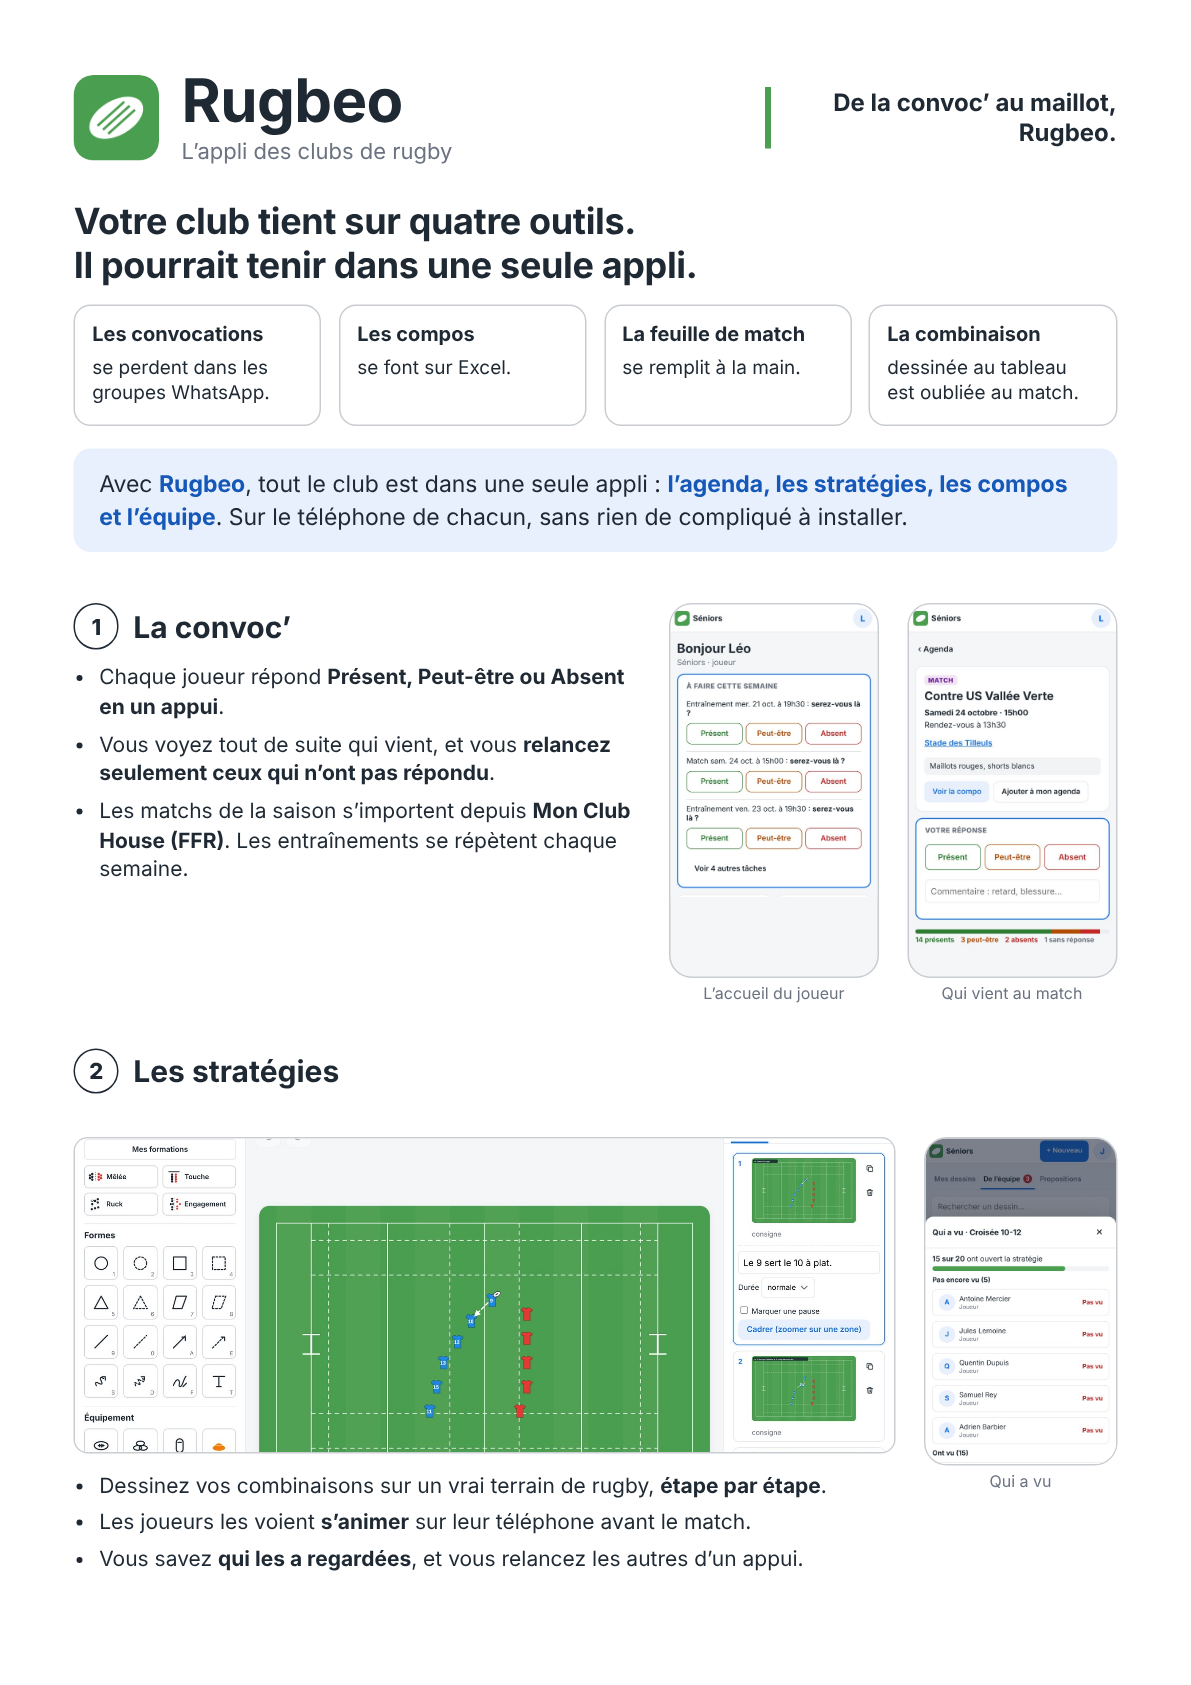
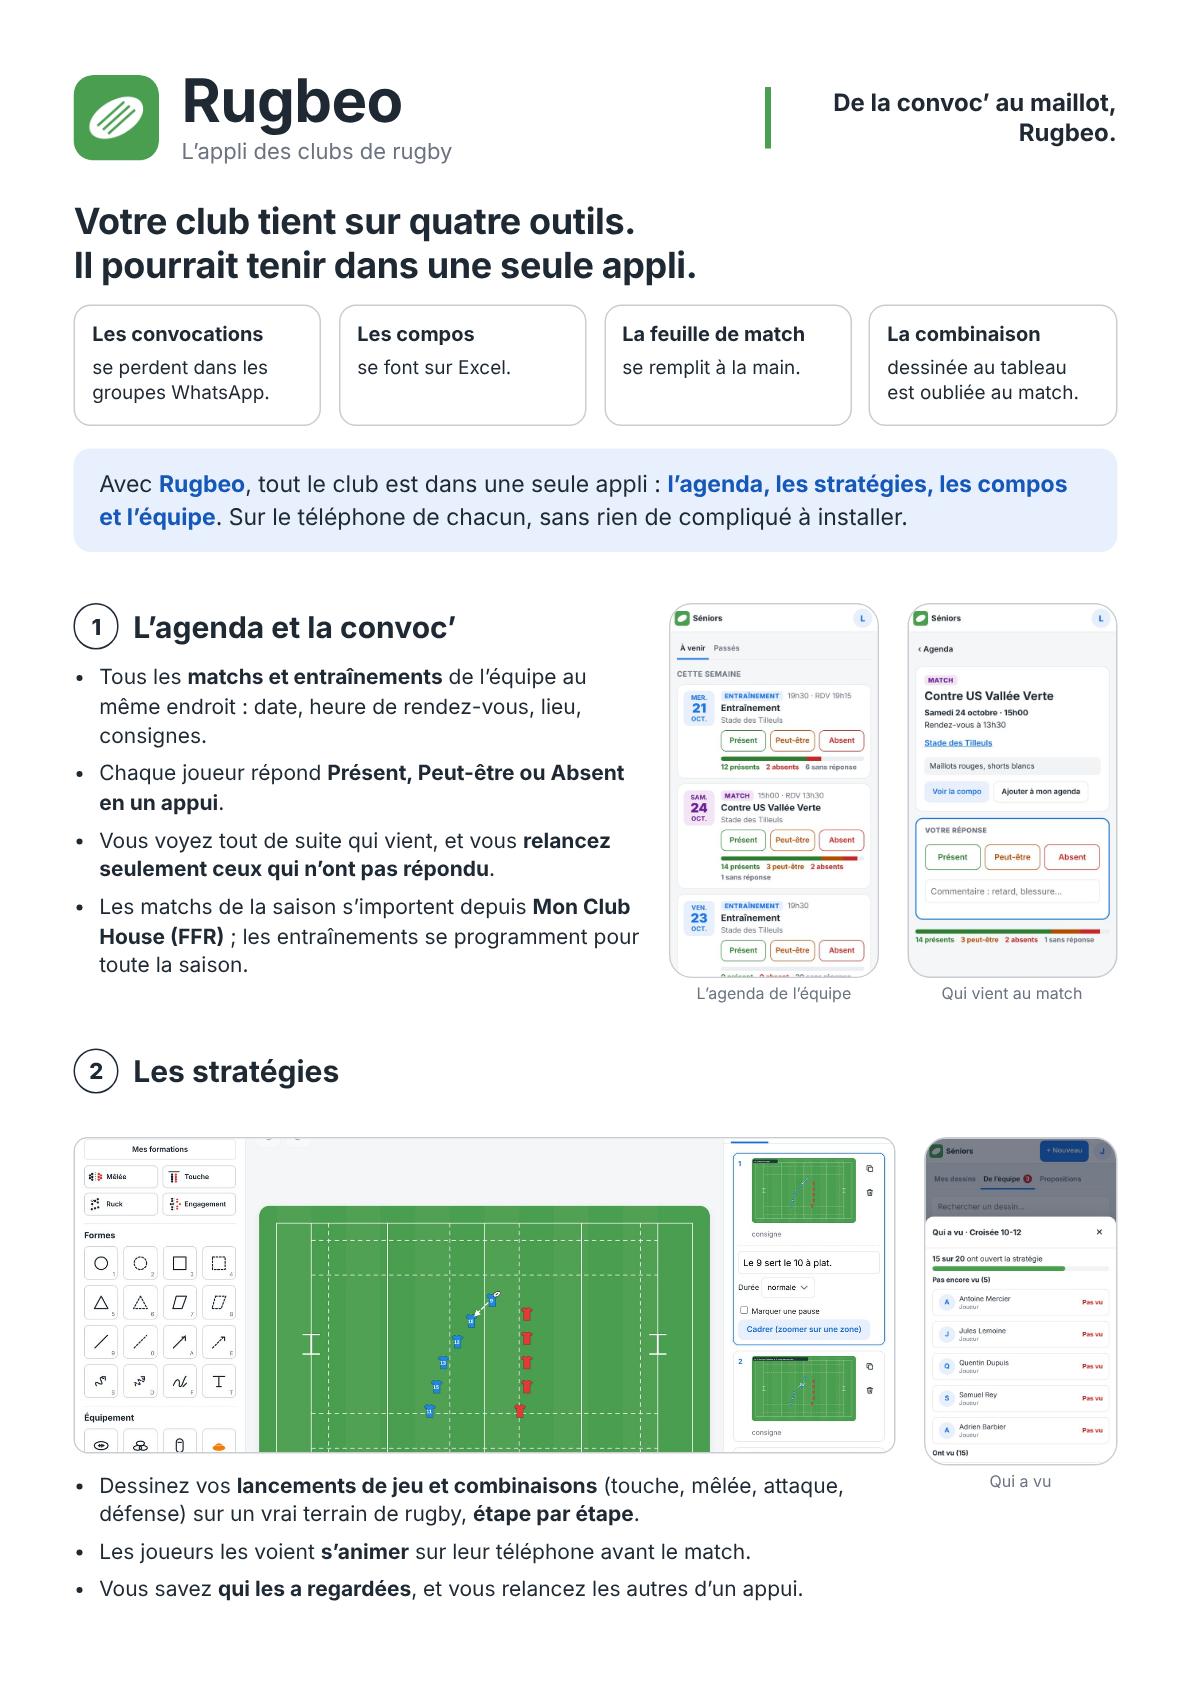
Plaquette : agenda et convoc', feuille de match, accueil qui fait avancer l'équipe (sans la partie profils)
Claude-Session: https://claude.ai/code/session_01RuavE2GoawUSus8iULb9LQ

Changed region(s): [[0.0621, 0.3703, 0.5281, 0.5864], [0.0621, 0.8641, 0.6835, 0.9567], [0.5592, 0.3703, 0.7456, 0.6172]]

diff --git a/docs/plaquette/plaquette.html b/docs/plaquette/plaquette.html
@@ -55,9 +55,11 @@
   .f-strat .phone { height: 58mm; }
   .f-strat .wide { height: 56mm; }
   .f-strat .wide img { object-fit: cover; object-position: 50% 30%; height: 100%; }
-  .f-compo, .f-team { grid-template-columns: 1fr 44mm; }
-  .f-compo .phone { height: 62mm; }
-  .f-team .phone { height: 50mm; }
+  .f-compo { grid-template-columns: 1fr 44mm; }
+  .f-home { grid-template-columns: 1fr 36mm 36mm; }
+  .f-home .phone { height: 54mm; }
+  .f-compo .phone { height: 58mm; }
+  
 
   /* Verso */
   .club { border: .35mm solid var(--border-strong); border-radius: 3mm; padding: 4mm 5mm; }
@@ -99,14 +101,15 @@
 
   <div class="feature f-convoc">
     <div>
-      <h3><span class="num">1</span>La convoc’</h3>
+      <h3><span class="num">1</span>L’agenda et la convoc’</h3>
       <ul>
+        <li>Tous les <b>matchs et entraînements</b> de l’équipe au même endroit : date, heure de rendez-vous, lieu, consignes.</li>
         <li>Chaque joueur répond <b>Présent, Peut-être ou Absent en un appui</b>.</li>
         <li>Vous voyez tout de suite qui vient, et vous <b>relancez seulement ceux qui n’ont pas répondu</b>.</li>
-        <li>Les matchs de la saison s’importent depuis <b>Mon Club House (FFR)</b>. Les entraînements se répètent chaque semaine.</li>
+        <li>Les matchs de la saison s’importent depuis <b>Mon Club House (FFR)</b> ; les entraînements se programment pour toute la saison.</li>
       </ul>
     </div>
-    <div><div class="phone"><img src="captures/joueur-accueil.jpg" alt="Accueil d’un joueur : Présent, Peut-être, Absent"></div><p class="cap">L’accueil du joueur</p></div>
+    <div><div class="phone"><img src="captures/joueur-agenda.jpg" alt="L’agenda : entraînements et matchs avec les réponses"></div><p class="cap">L’agenda de l’équipe</p></div>
     <div><div class="phone"><img src="captures/match-detail.jpg" alt="Détail d’un match : qui vient"></div><p class="cap">Qui vient au match</p></div>
   </div>
 
@@ -116,7 +119,7 @@
       <div>
         <div class="wide"><img src="captures/editeur.jpg" alt="L’éditeur de stratégies"></div>
         <ul style="margin-top:3mm">
-          <li>Dessinez vos combinaisons sur un vrai terrain de rugby, <b>étape par étape</b>.</li>
+          <li>Dessinez vos <b>lancements de jeu et combinaisons</b> (touche, mêlée, attaque, défense) sur un vrai terrain de rugby, <b>étape par étape</b>.</li>
           <li>Les joueurs les voient <b>s’animer</b> sur leur téléphone avant le match.</li>
           <li>Vous savez <b>qui les a regardées</b>, et vous relancez les autres d’un appui.</li>
         </ul>
@@ -130,9 +133,9 @@
 <section class="page">
   <div class="feature f-compo">
     <div>
-      <h3><span class="num">3</span>La compo et la feuille de match</h3>
+      <h3><span class="num">3</span>La feuille de match, en quelques minutes</h3>
       <ul>
-        <li>Composez l’équipe à partir des <b>joueurs présents</b>.</li>
+        <li>Composez l’équipe à partir des <b>joueurs qui ont répondu présent</b> : plus besoin de recopier les noms.</li>
         <li>Une feuille de match <b>aux couleurs du club</b> (logo, couleurs), prête à imprimer.</li>
         <li>Imprimez-la, gardez-la en <b>PDF</b> ou envoyez-la <b>en image sur WhatsApp</b>.</li>
         <li>Dès la publication, chaque joueur sait qu’il est « n°12 ».</li>
@@ -141,24 +144,26 @@
     <div><div class="phone"><img src="captures/joueur-compo.jpg" alt="Feuille de match publiée"></div><p class="cap">La feuille de match publiée</p></div>
   </div>
 
-  <div class="feature f-team">
+  <div class="feature f-home">
     <div>
-      <h3><span class="num">4</span>L’équipe et le maillot</h3>
+      <h3><span class="num">4</span>Un accueil qui fait avancer l’équipe</h3>
       <ul>
-        <li>Chaque joueur a son profil : <b>photo, postes, numéro</b>.</li>
-        <li>Les coachs ont le téléphone et le contact d’urgence ; <b>les autres membres ne les voient pas</b>.</li>
+        <li>En ouvrant l’appli, chaque joueur voit <b>ce qu’il a à faire</b> : répondre aux convocations, regarder la stratégie du week-end, découvrir sa place dans la compo.</li>
+        <li>Il répond <b>directement depuis l’accueil</b>, sans chercher.</li>
+        <li>Le coach voit d’un coup d’œil <b>qui n’a pas répondu</b> et relance en un appui.</li>
         <li>Des <b>notifications</b> préviennent de chaque convocation, compo et nouvelle stratégie.</li>
       </ul>
     </div>
-    <div><div class="phone"><img src="captures/coach-equipe.jpg" alt="Les membres de l’équipe"></div><p class="cap">L’équipe</p></div>
+    <div><div class="phone"><img src="captures/joueur-accueil.jpg" alt="Accueil d’un joueur : répondre en un appui"></div><p class="cap">Côté joueur</p></div>
+    <div><div class="phone"><img src="captures/coach-accueil.jpg" alt="Accueil du coach : relancer les joueurs sans réponse"></div><p class="cap">Côté coach</p></div>
   </div>
 
   <div class="club">
     <h3><span class="num">5</span>Tout le club, pas seulement une équipe</h3>
     <ul>
-      <li>Toutes les équipes du club dans la même appli : Séniors, jeunes, féminines…</li>
+      <li><b>Autant d’équipes que vous voulez</b> : Séniors, réserve, jeunes, féminines…</li>
       <li>Un seul code pour rejoindre le club ; chacun choisit ses équipes.</li>
-      <li>Le bureau (présidente, secrétaire…) gère toutes les équipes.</li>
+      <li>Le bureau (présidente, secrétaire…) <b>gère toutes les équipes</b> du club.</li>
       <li>Une stratégie peut être partagée avec une autre équipe du club.</li>
     </ul>
   </div>

diff --git a/docs/plaquette/whatsapp.html b/docs/plaquette/whatsapp.html
@@ -43,10 +43,10 @@
   <p class="hook">Moins de WhatsApp,<br>plus de terrain.</p>
   <p class="promise">Convocations, stratégies, compos et feuille de match : tout le club dans une seule appli.</p>
   <div class="steps">
-    <div class="step"><div class="shot"><img src="captures/joueur-accueil.jpg" alt=""></div><div class="t"><b>1. La convoc’</b>Présent, Peut-être ou Absent en un appui.</div></div>
-    <div class="step"><div class="shot wide"><img src="captures/editeur.jpg" alt=""></div><div class="t"><b>2. Les stratégies</b>Animées, et vous savez qui les a vues.</div></div>
-    <div class="step"><div class="shot"><img src="captures/joueur-compo.jpg" alt=""></div><div class="t"><b>3. La compo</b>Feuille de match aux couleurs du club.</div></div>
-    <div class="step"><div class="shot"><img src="captures/coach-equipe.jpg" alt=""></div><div class="t"><b>4. Le maillot</b>L’équipe, les profils, les notifications.</div></div>
+    <div class="step"><div class="shot"><img src="captures/joueur-agenda.jpg" alt=""></div><div class="t"><b>1. L’agenda et la convoc’</b>Matchs, entraînements : réponse en un appui.</div></div>
+    <div class="step"><div class="shot wide"><img src="captures/editeur.jpg" alt=""></div><div class="t"><b>2. Les stratégies</b>Lancements de jeu animés, et vous savez qui les a vus.</div></div>
+    <div class="step"><div class="shot"><img src="captures/joueur-compo.jpg" alt=""></div><div class="t"><b>3. La feuille de match</b>Faite en quelques minutes, aux couleurs du club.</div></div>
+    <div class="step"><div class="shot"><img src="captures/coach-accueil.jpg" alt=""></div><div class="t"><b>4. L’accueil</b>Chacun sait quoi faire ; le coach relance en un appui.</div></div>
   </div>
   <div class="why"><span>Pensée pour le rugby</span><span>Données en France</span><span>Sans publicité</span></div>
   <div class="cta"><div><b>Essayez gratuitement</b><span>[lien de l’appli]</span></div><div class="qr">[QR code]</div></div>

diff --git a/docs/plaquette/texte.md b/docs/plaquette/texte.md
@@ -26,13 +26,14 @@ Avec Rugbeo, tout le club est dans une seule appli : l'agenda, les stratégies, 
 
 ### 2. Ce que Rugbeo change (dans l'ordre du slogan)
 
-**① La convoc'** : *capture : accueil joueur avec Présent / Peut-être / Absent*
+**① L'agenda et la convoc'** : *captures : agenda de l'équipe, détail d'un match*
+- Tous les matchs et entraînements de l'équipe au même endroit : date, heure de rendez-vous, lieu, consignes.
 - Chaque joueur répond **Présent, Peut-être ou Absent en un appui**.
 - Vous voyez tout de suite qui vient, et vous **relancez seulement ceux qui n'ont pas répondu**.
-- Les matchs de la saison s'importent depuis Mon Club House (FFR), et les entraînements se répètent chaque semaine.
+- Les matchs de la saison s'importent depuis Mon Club House (FFR) ; les entraînements se programment pour toute la saison.
 
-**② Les stratégies** : *capture large : l'éditeur*
-- Dessinez vos combinaisons sur un vrai terrain de rugby, **étape par étape**.
+**② Les stratégies** : *capture large : l'éditeur ; capture : « Qui a vu »*
+- Dessinez vos **lancements de jeu et combinaisons** (touche, mêlée, attaque, défense) sur un vrai terrain de rugby, étape par étape.
 - Les joueurs les voient **s'animer** sur leur téléphone avant le match.
 - Vous savez **qui les a regardées**, et vous relancez les autres d'un appui.
 
@@ -40,19 +41,20 @@ Avec Rugbeo, tout le club est dans une seule appli : l'agenda, les stratégies, 
 
 ## VERSO
 
-**③ Les compos et la feuille de match** : *capture : feuille de match*
-- Composez l'équipe à partir des joueurs présents.
+**③ La feuille de match, en quelques minutes** : *capture : feuille de match publiée*
+- Composez l'équipe à partir des joueurs qui ont répondu présent : plus besoin de recopier les noms.
 - Feuille de match **aux couleurs du club** (logo, couleurs), prête à imprimer.
 - Imprimez-la, gardez-la en PDF ou envoyez-la **en image sur WhatsApp**.
-- Chaque joueur sait qu'il est « n°12 » dès la publication.
+- Dès la publication, chaque joueur sait qu'il est « n°12 ».
 
-**④ L'équipe et le maillot** : *capture : page Équipe ou profil*
-- Chaque joueur a son profil : photo, postes, numéro.
-- Les coachs ont les numéros utiles et le contact d'urgence ; les autres membres ne les voient pas.
-- Les **notifications** préviennent de chaque convocation, compo et nouvelle stratégie.
+**④ Un accueil qui fait avancer l'équipe** : *captures : accueil joueur, accueil coach*
+- En ouvrant l'appli, chaque joueur voit ce qu'il a à faire : répondre aux convocations, regarder la stratégie du week-end, découvrir sa place dans la compo.
+- Il répond directement depuis l'accueil, sans chercher.
+- Le coach voit d'un coup d'œil qui n'a pas répondu et relance en un appui.
+- Des notifications préviennent de chaque convocation, compo et nouvelle stratégie.
 
 **⑤ Tout le club, pas seulement une équipe** *(sans capture, ou petite capture de l'onglet Club)*
-- Toutes les équipes du club dans la même appli : Séniors, jeunes, féminines…
+- Autant d'équipes que vous voulez : Séniors, réserve, jeunes, féminines…
 - Un seul code pour rejoindre le club ; chacun choisit ses équipes.
 - Le bureau (présidente, secrétaire…) gère toutes les équipes.
 - Une stratégie peut être partagée avec une autre équipe du club.
@@ -75,7 +77,7 @@ Avec Rugbeo, tout le club est dans une seule appli : l'agenda, les stratégies, 
 Version courte, lisible sur un téléphone :
 1. Rugbeo · L'appli des clubs de rugby
 2. « Moins de WhatsApp, plus de terrain. » *(accroche de réserve, ou le slogan)*
-3. Les 4 étapes avec une capture chacune : La convoc' → Les stratégies → La compo → Le maillot
+3. Les 4 points avec une capture chacun : L'agenda et la convoc' → Les stratégies → La feuille de match → L'accueil
 4. Données en France · Sans pub · Pensée pour le rugby
 5. Essayez gratuitement : [lien]
 
